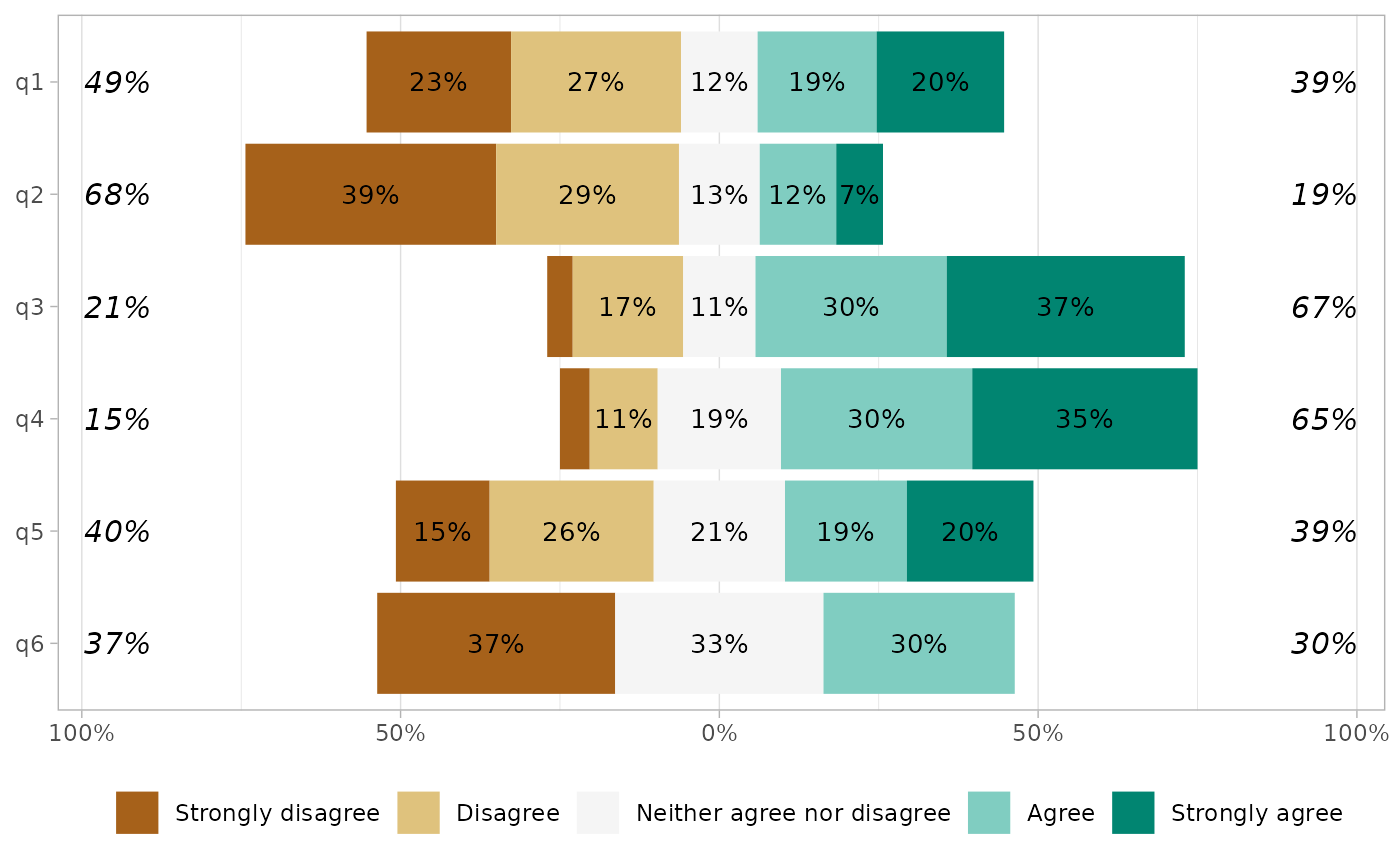
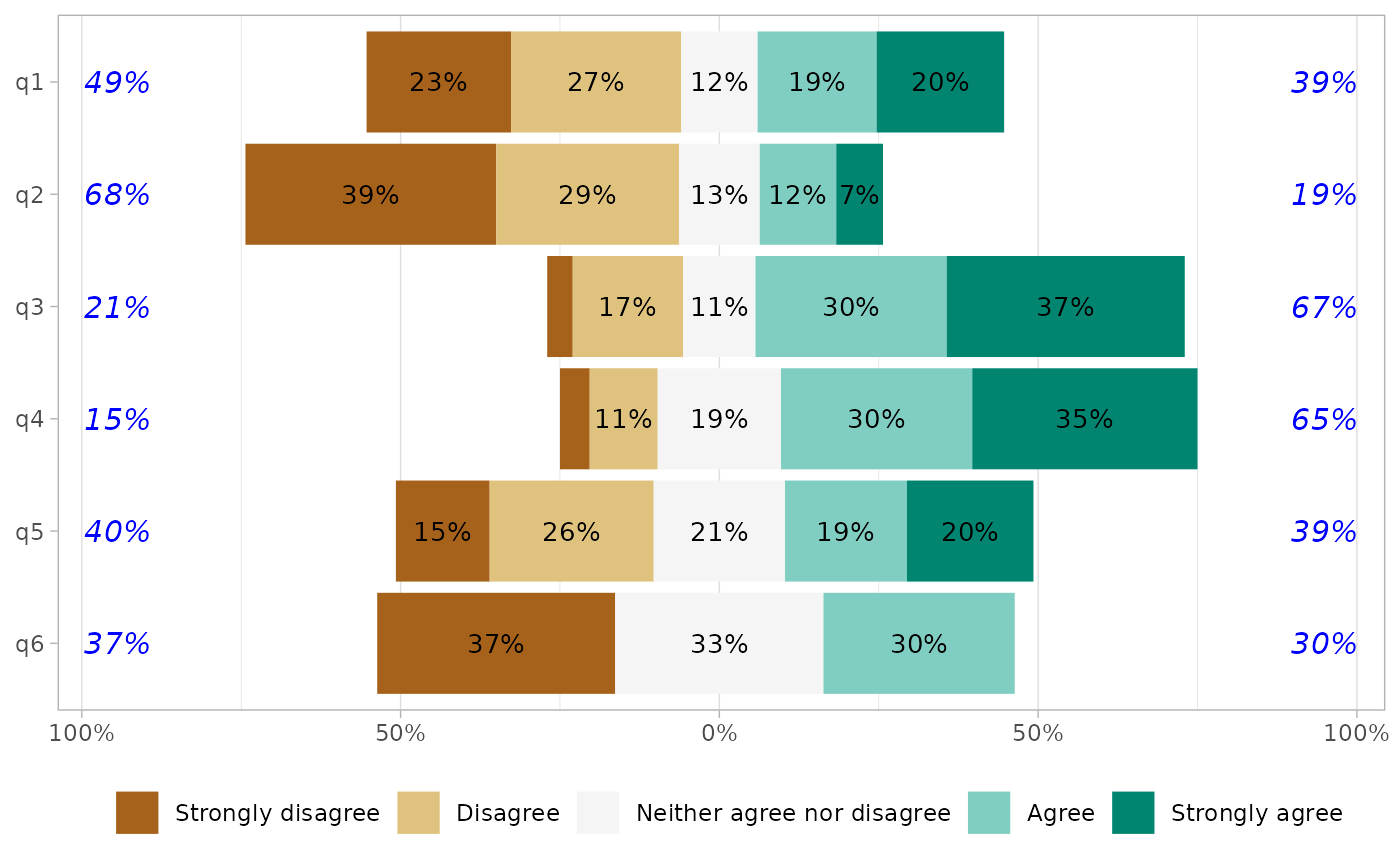
Deploying to gh-pages from @ larmarange/ggstats@961f2d2c0c56c4da457a001600997af66ade6877 🚀

diff --git a/dev/reference/gglikert.html b/dev/reference/gglikert.html
@@ -87,10 +87,12 @@
 <span>  exclude_fill_values <span class="op">=</span> <span class="cn">NULL</span>,</span>
 <span>  add_labels <span class="op">=</span> <span class="cn">TRUE</span>,</span>
 <span>  labels_size <span class="op">=</span> <span class="fl">3.5</span>,</span>
+<span>  labels_color <span class="op">=</span> <span class="st">"black"</span>,</span>
 <span>  labels_accuracy <span class="op">=</span> <span class="fl">1</span>,</span>
 <span>  labels_hide_below <span class="op">=</span> <span class="fl">0.05</span>,</span>
 <span>  add_totals <span class="op">=</span> <span class="cn">TRUE</span>,</span>
 <span>  totals_size <span class="op">=</span> <span class="va">labels_size</span>,</span>
+<span>  totals_color <span class="op">=</span> <span class="st">"black"</span>,</span>
 <span>  totals_accuracy <span class="op">=</span> <span class="va">labels_accuracy</span>,</span>
 <span>  totals_fontface <span class="op">=</span> <span class="st">"bold"</span>,</span>
 <span>  totals_include_center <span class="op">=</span> <span class="cn">FALSE</span>,</span>
@@ -126,6 +128,7 @@
 <span>  sort_prop_include_center <span class="op">=</span> <span class="cn">FALSE</span>,</span>
 <span>  add_labels <span class="op">=</span> <span class="cn">TRUE</span>,</span>
 <span>  labels_size <span class="op">=</span> <span class="fl">3.5</span>,</span>
+<span>  labels_color <span class="op">=</span> <span class="st">"black"</span>,</span>
 <span>  labels_accuracy <span class="op">=</span> <span class="fl">1</span>,</span>
 <span>  labels_hide_below <span class="op">=</span> <span class="fl">0.05</span>,</span>
 <span>  add_median_line <span class="op">=</span> <span class="cn">FALSE</span>,</span>
@@ -194,6 +197,10 @@ see <code><a href="position_likert.html">position_likert()</a></code></p></dd>
 <dd><p>size of the percentage labels</p></dd>
 
 
+<dt>labels_color</dt>
+<dd><p>color of the percentage labels</p></dd>
+
+
 <dt>labels_accuracy</dt>
 <dd><p>accuracy of the percentages, see
 <code><a href="https://scales.r-lib.org/reference/label_percent.html" class="external-link">scales::label_percent()</a></code></p></dd>
@@ -210,7 +217,11 @@ answers be added to plot? <strong>This option is not compatible with facets!</st
 
 
 <dt>totals_size</dt>
-<dd><p>size of total proportions</p></dd>
+<dd><p>size of the total proportions</p></dd>
+
+
+<dt>totals_color</dt>
+<dd><p>color of the total proportions</p></dd>
 
 
 <dt>totals_accuracy</dt>

diff --git a/dev/articles/gglikert.html b/dev/articles/gglikert.html
@@ -228,7 +228,8 @@ transformed into a score and sorted accorded to their mean.</p>
 <span>  <span class="va">df</span>,</span>
 <span>  labels_size <span class="op">=</span> <span class="fl">3</span>,</span>
 <span>  labels_accuracy <span class="op">=</span> <span class="fl">.1</span>,</span>
-<span>  labels_hide_below <span class="op">=</span> <span class="fl">.2</span></span>
+<span>  labels_hide_below <span class="op">=</span> <span class="fl">.2</span>,</span>
+<span>  labels_color <span class="op">=</span> <span class="st">"white"</span></span>
 <span><span class="op">)</span></span></code></pre></div>
 <p><img src="gglikert_files/figure-html/unnamed-chunk-10-1.png" width="700"></p>
 </div>
@@ -250,7 +251,13 @@ central level will be added on each side.</p>
 <p><img src="gglikert_files/figure-html/unnamed-chunk-11-1.png" width="700"></p>
 <p>Totals could be customized.</p>
 <div class="sourceCode" id="cb12"><pre class="downlit sourceCode r">
-<code class="sourceCode R"><span><span class="fu"><a href="../reference/gglikert.html">gglikert</a></span><span class="op">(</span><span class="va">df</span>, totals_size <span class="op">=</span> <span class="fl">4</span>, totals_fontface <span class="op">=</span> <span class="st">"italic"</span>, totals_hjust <span class="op">=</span> <span class="fl">.20</span><span class="op">)</span></span></code></pre></div>
+<code class="sourceCode R"><span><span class="fu"><a href="../reference/gglikert.html">gglikert</a></span><span class="op">(</span></span>
+<span>  <span class="va">df</span>,</span>
+<span>  totals_size <span class="op">=</span> <span class="fl">4</span>,</span>
+<span>  totals_color <span class="op">=</span> <span class="st">"blue"</span>,</span>
+<span>  totals_fontface <span class="op">=</span> <span class="st">"italic"</span>,</span>
+<span>  totals_hjust <span class="op">=</span> <span class="fl">.20</span></span>
+<span><span class="op">)</span></span></code></pre></div>
 <p><img src="gglikert_files/figure-html/unnamed-chunk-12-1.png" width="700"></p>
 <p>Or removed.</p>
 <div class="sourceCode" id="cb13"><pre class="downlit sourceCode r">

diff --git a/dev/news/index.html b/dev/news/index.html
@@ -71,7 +71,9 @@
 
     <div class="section level2">
 <h2 class="page-header" data-toc-text="development version" id="ggstats-development-version">ggstats (development version)<a class="anchor" aria-label="anchor" href="#ggstats-development-version"></a></h2>
-<p><strong>Bug fixes</strong></p>
+<p><strong>Improvements</strong></p>
+<ul><li>New options <code>labels_color</code> and <code>totals_color</code> in <code><a href="../reference/gglikert.html">gglikert()</a></code> and <code><a href="../reference/gglikert.html">gglikert_stacked()</a></code> (<a href="https://github.com/larmarange/ggstats/issues/43" class="external-link">#43</a>)</li>
+</ul><p><strong>Bug fixes</strong></p>
 <ul><li>fix in <code><a href="../reference/ggcoef_model.html">ggcoef_multicomponents()</a></code> when <code>type = "table"</code> and <code>exponentiate = TRUE</code>
 </li>
 </ul></div>
